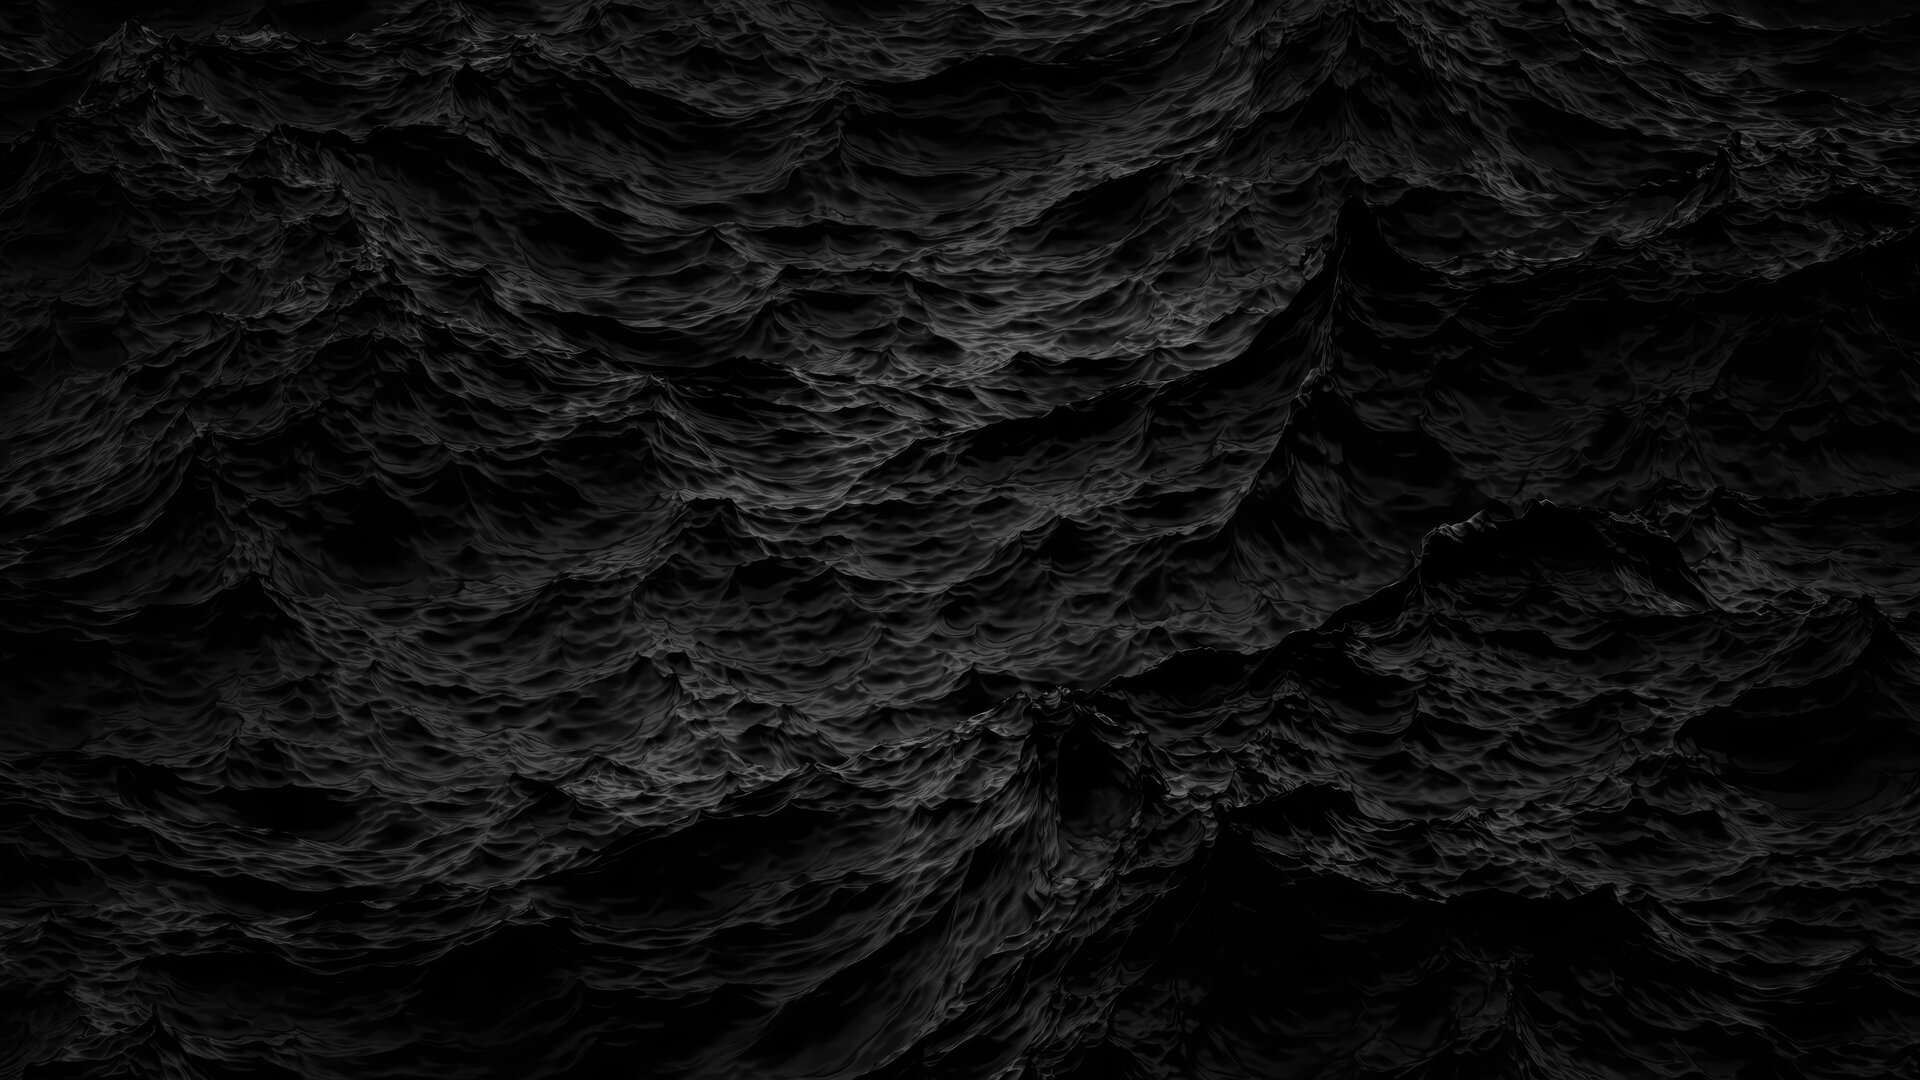
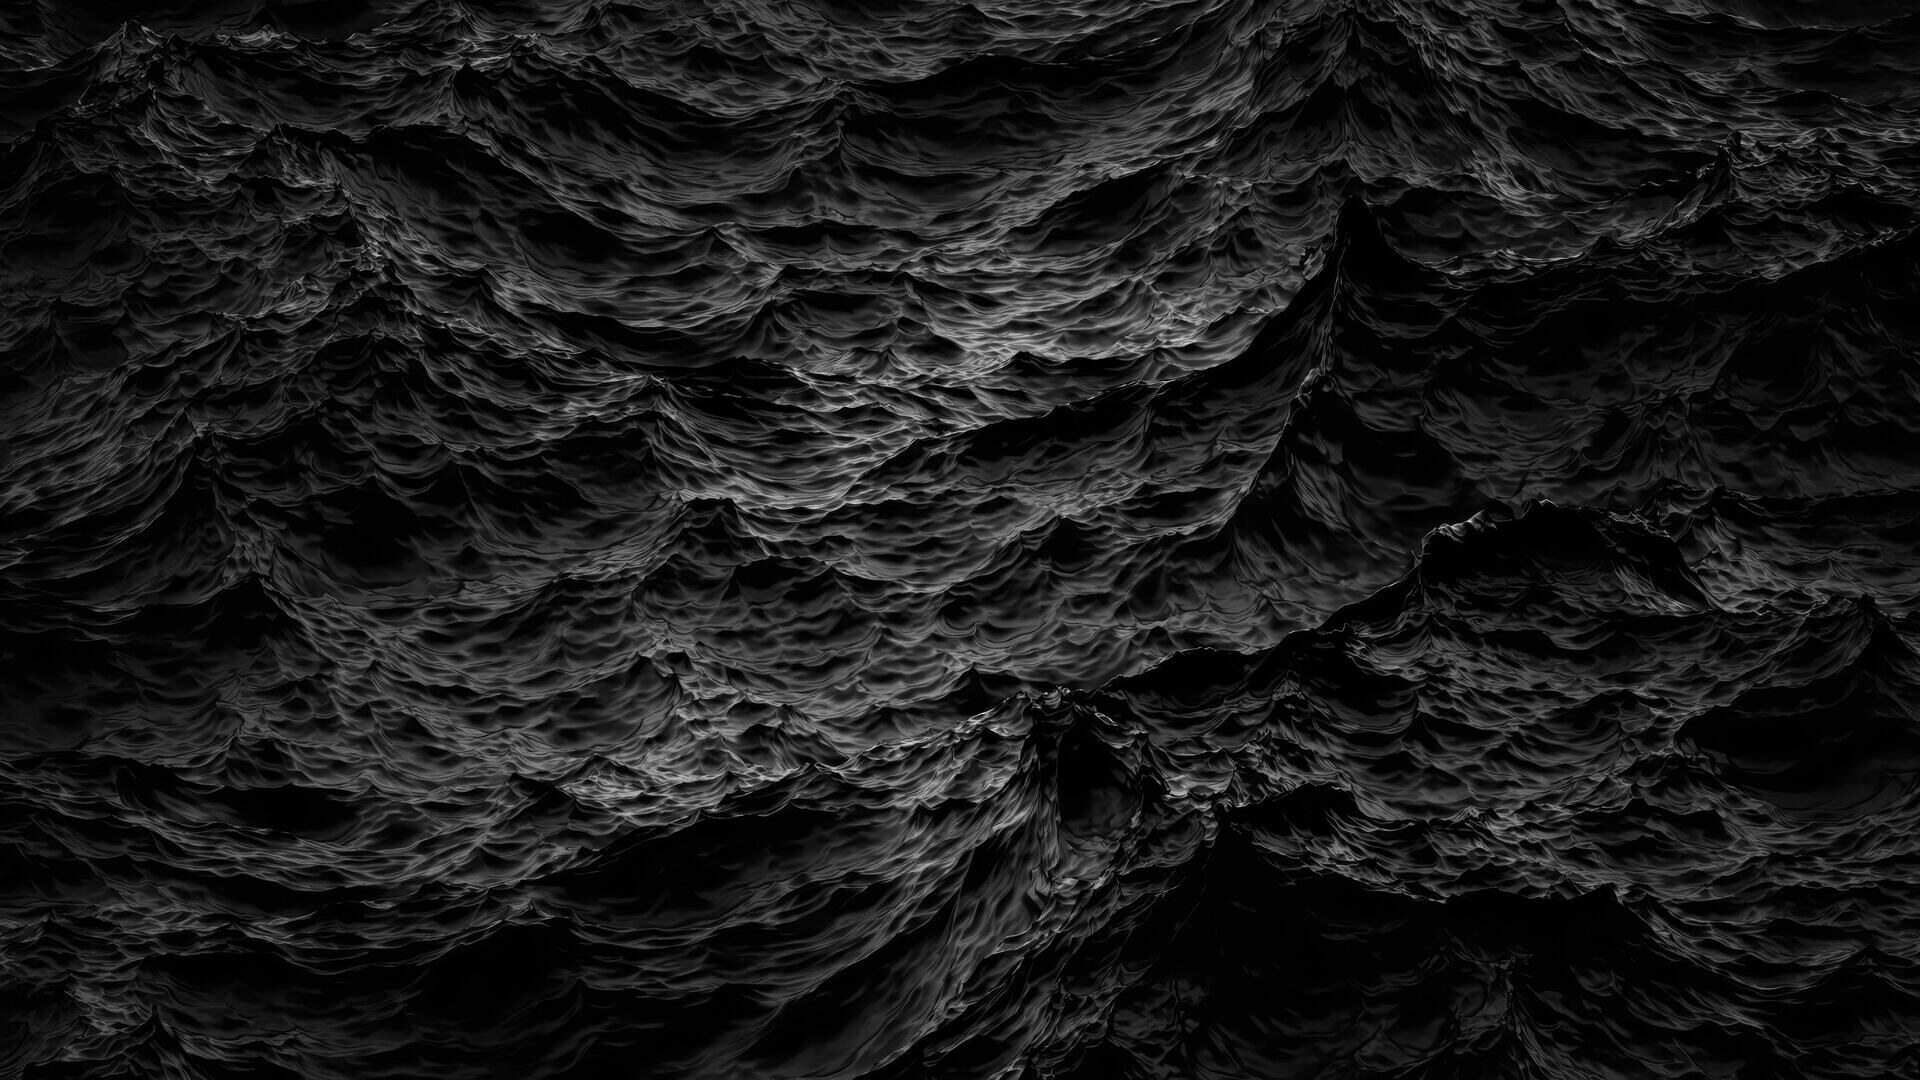
Wallpaper: fix crushed-black dark image, and make upload dir creation universal
The dark wallpaper conversion was technically valid but had a mean
brightness of 16/255 (max highlight only 145/255) - on a typical
monitor that reads as flat black, not a textured dark wallpaper.
Boosted levels so the texture is actually visible while staying dark.

Also: PostFileUpload's directory auto-create (os.MkdirAll before writing)
only existed on the single-chunk upload branch. The chunked branch (the
common case for a several-hundred-KB+ image like a wallpaper) had no
equivalent - it only creates a subdirectory when the upload's relative
path has one, never the destination directory itself. A fresh install
uploading its first wallpaper (or anything else) to a path that doesn't
exist yet failed silently. Moved the MkdirAll before the branch so both
paths get it, and removed the now-redundant duplicate in the single-chunk
branch.

diff --git a/services/core/route/v1/file.go b/services/core/route/v1/file.go
@@ -1195,6 +1195,19 @@ func PostFileUpload(ctx echo.Context) error {
 		fullDstPath = path + "/" + relative
 	}
 
+	// The single-chunk branch below already did this right before opening
+	// fullDstPath - but the chunked branch (totalChunks > 1, the common
+	// case for a several-MB image like a wallpaper) only creates a
+	// dirPath subfolder when the upload's relative path actually has one,
+	// and never the destination directory itself. A target path whose
+	// directory doesn't exist yet (e.g. a fresh install where nothing has
+	// ever been uploaded to it before) silently failed for exactly that
+	// reason. Doing it once here, before either branch, covers both.
+	if err := os.MkdirAll(filepath.Dir(fullDstPath), 0o755); err != nil {
+		logger.Error("error creating destination directory for `"+fullDstPath+"`", zap.Error(err))
+		return ctx.JSON(http.StatusInternalServerError, model.Result{Success: common_err.SERVICE_ERROR, Message: err.Error()})
+	}
+
 	if !file.CheckNotExist(tempDir + chunkNumber) {
 		if err := file.RMDir(tempDir + chunkNumber); err != nil {
 			logger.Error("error when trying to remove existing `"+tempDir+chunkNumber+"`", zap.Error(err))
@@ -1254,7 +1267,6 @@ func PostFileUpload(ctx echo.Context) error {
 			}
 		}
 	} else {
-		_ = os.MkdirAll(filepath.Dir(fullDstPath), 0755)
 		out, err := os.OpenFile(fullDstPath, os.O_WRONLY|os.O_CREATE|os.O_TRUNC, 0o644)
 		if err != nil {
 			logger.Error("error when trying to open `"+fullDstPath+"` for creation", zap.Error(err))
